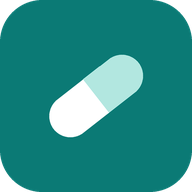
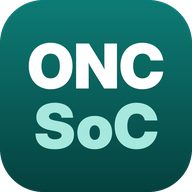
앱 아이콘 교체: ONC / SoC 영문 워드마크
Claude-Session: https://claude.ai/code/session_0163dRA96gWAn1gdTL7g1RTA

diff --git a/sw.js b/sw.js
@@ -1,4 +1,4 @@
-const V="onc-soc-fb8032ad7c";const SHELL=["./","index.html","manifest.webmanifest","icons/icon-192.png","icons/icon-512.png"];
+const V="onc-soc-8b4b8a86a2";const SHELL=["./","index.html","manifest.webmanifest","icons/icon-192.png","icons/icon-512.png"];
 self.addEventListener("install",e=>{e.waitUntil(caches.open(V).then(c=>c.addAll(SHELL)));});
 self.addEventListener("activate",e=>{e.waitUntil(caches.keys().then(ks=>Promise.all(ks.filter(k=>k!==V).map(k=>caches.delete(k)))).then(()=>self.clients.claim()));});
 self.addEventListener("fetch",e=>{const r=e.request;if(r.method!=="GET")return;const u=new URL(r.url);
